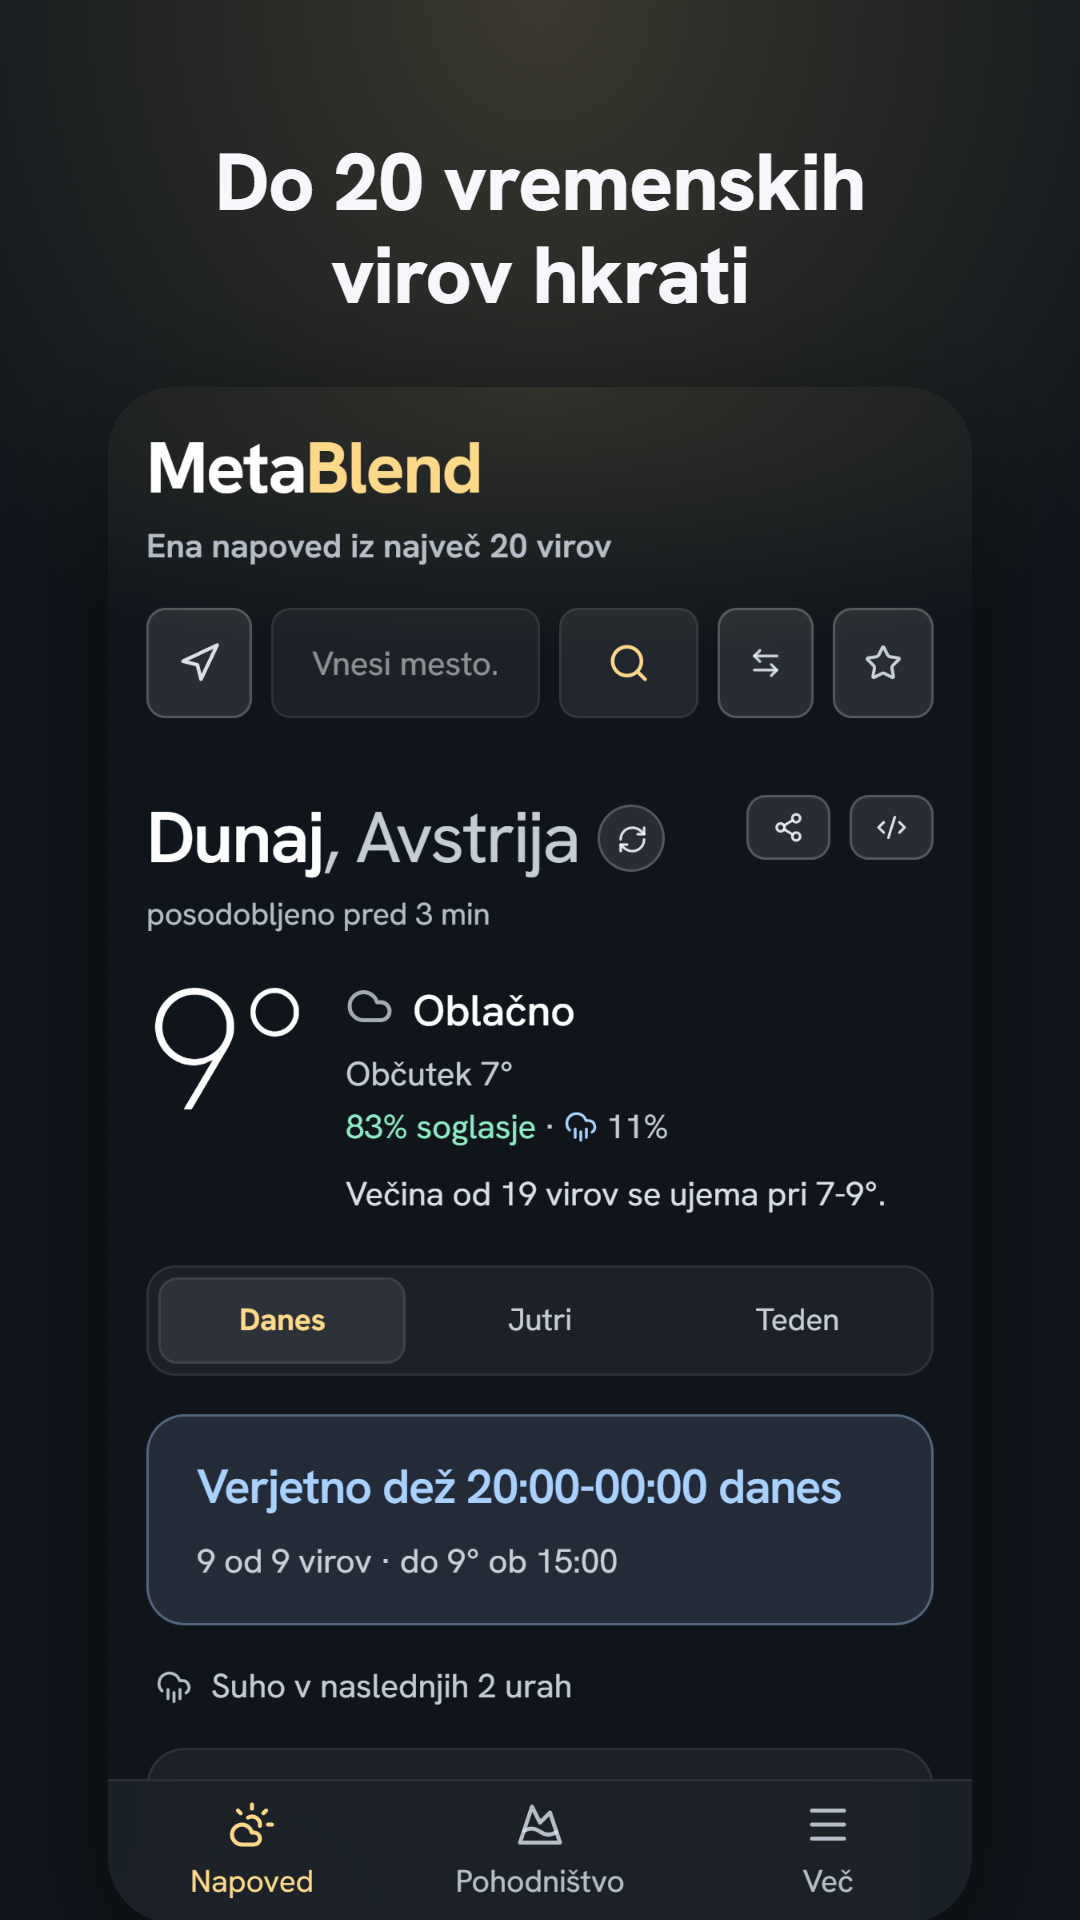
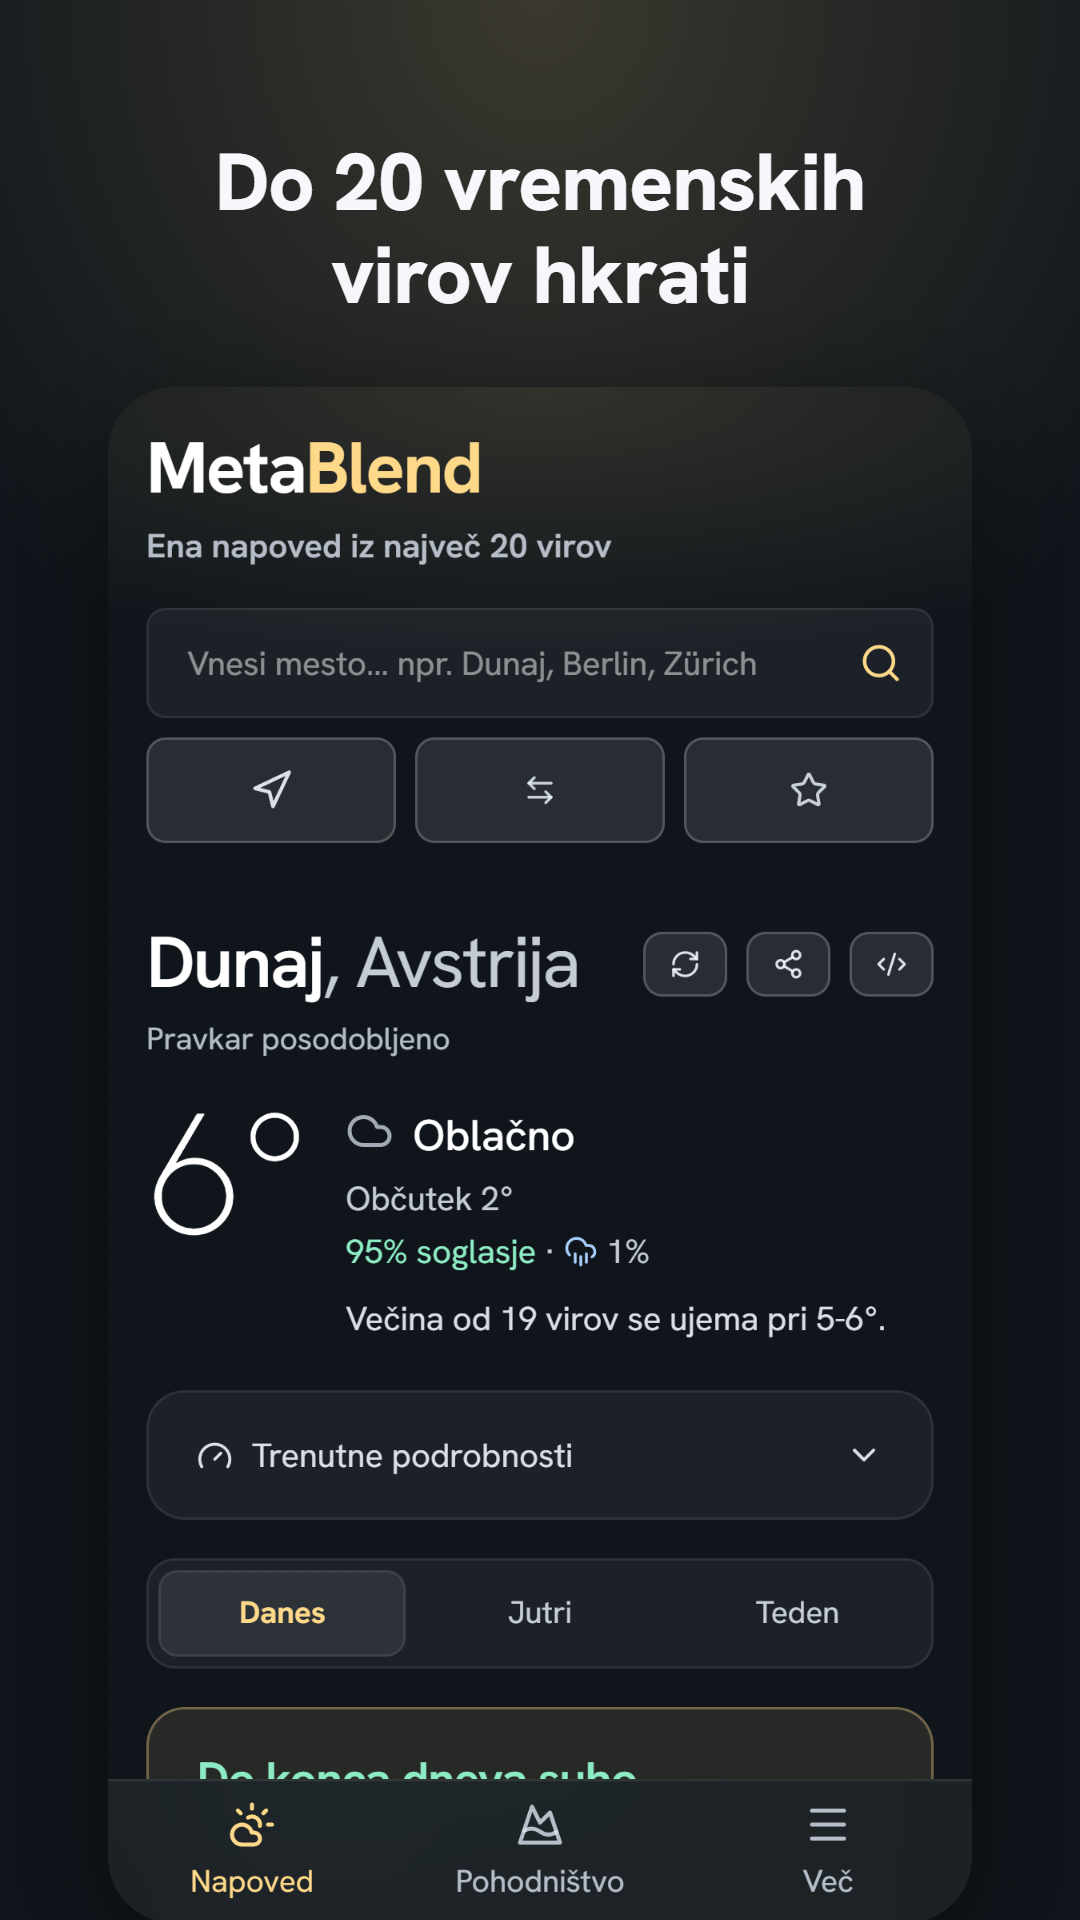
Google Play screens 1 and 2 retaken in all 13 languages (owner 2026-11-15, by hand after the 08:23 job missed): the forecast page as live since 2026-11-14 (search button inside the field, refresh beside share and embed, Current details above the tabs), German screen 2 caption without the comma. Vien

diff --git a/CHANGELOG.md b/CHANGELOG.md
@@ -3,6 +3,11 @@
 All notable changes to MetaBlend. Format loosely follows
 [Keep a Changelog](https://keepachangelog.com/). Dates are UTC.
 
+## 2026-11-15
+
+### Changed: Google Play screens 1 and 2 retaken in all 13 languages
+- They show the forecast page as it is live since 2026-11-14: the search button inside the search field, refresh beside share and embed, Current details above the tabs; German screen 2 carries its caption without the comma. Vienna's forecast from production, taken 15 November in the afternoon (Vienna time). The iPhone set follows from the Mac run.
+
 ## 2026-11-14
 
 ### Changed: the German caption of store screen 2 (owner 2026-11-14)
